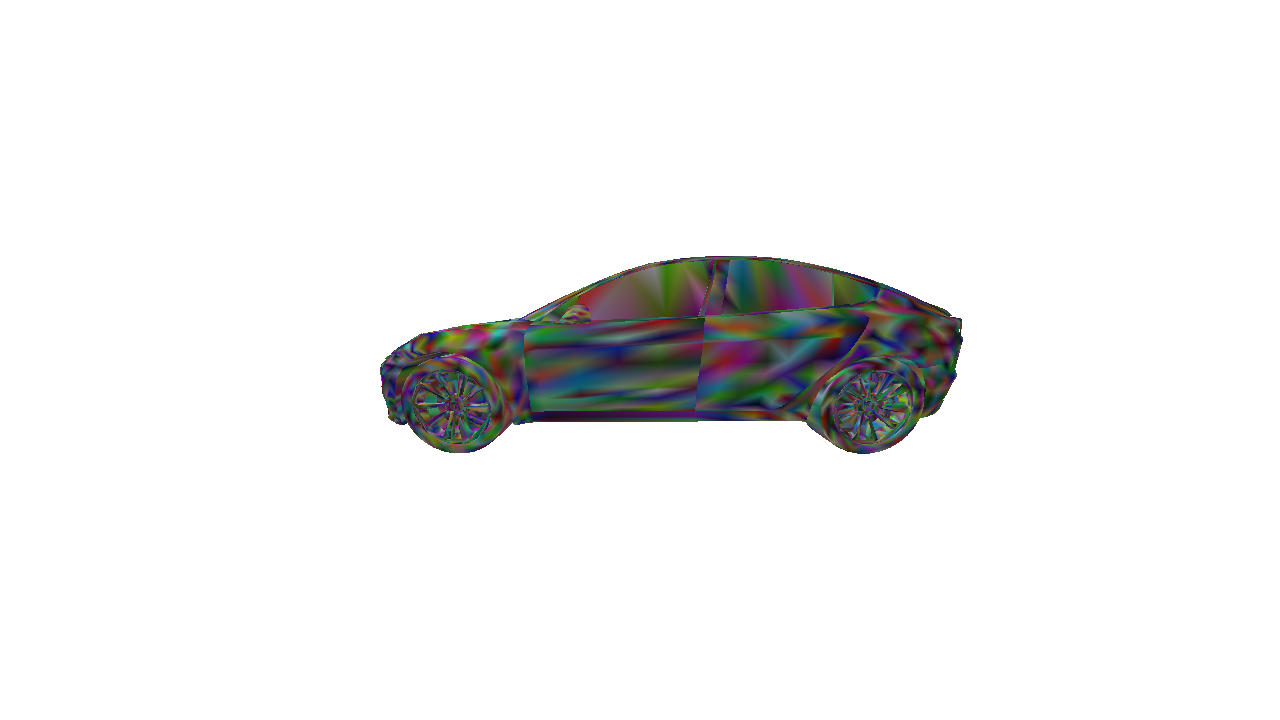
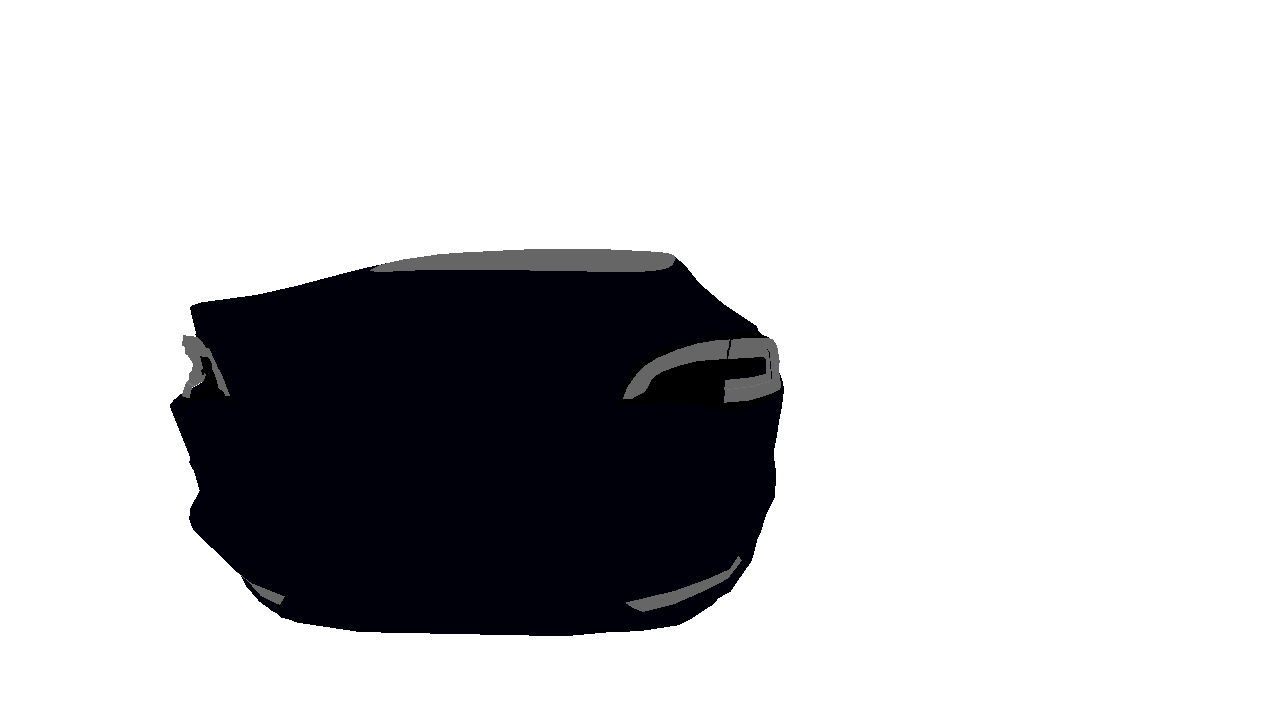
MM3DAdv model can optim

Changed region(s): [[0.125, 0.3361, 0.75, 0.8861]]

diff --git a/adv_attack/attack_class.py b/adv_attack/attack_class.py
@@ -3371,8 +3371,9 @@ class MM3DAdv_ATTACK:
         # pr_scale= 1 #1/pr_scale # 单位像素感知损失差距，所以需要除以比例
 
         # data_load 初始化
-        transforms_list = [
-            transforms.ToTensor()]
+        transforms_list = transforms.Compose([
+                    transforms.ToTensor()  # 转为张量 [C, H, W]，值归一化到 [0,1]
+                    ]) 
         train_loader ,val_loader=build_RGBCameraPose_dataloader(
                 train_root_dir=self.exp_params["train_root_dir"],
                 val_root_dir=self.exp_params["val_root_dir"],
@@ -3380,7 +3381,8 @@ class MM3DAdv_ATTACK:
                 num_workers=self.exp_params["num_workers"],
                 transform= transforms_list)
         
-
+        self.optim.object_detect = self.init_object_detection_return(
+            device=optim_device)
 
         self.optim.optim_device= optim_device
         self.optim.optim_data_type= optim_data_type
@@ -3437,12 +3439,12 @@ class MM3DAdv_ATTACK:
 
 
                 # resize
-                image_size=( self.exp_params["render_size"]["height"], 
+                image_size_render=( self.exp_params["render_size"]["height"], 
                             self.exp_params["render_size"]["width"])
                 # resize
                 adv_texture_resized = resize_tensor(adv_tensor_generate, 
-                                                   height=image_size[0], 
-                                                    width=image_size[1])
+                                                   height=image_size_render[0], 
+                                                    width=image_size_render[1])
                 # render 渲染
                 # 初始化object mesh
 
@@ -3451,7 +3453,7 @@ class MM3DAdv_ATTACK:
                 origin_com_tensor_rendered = load_parma_and_render_main(object_mesh=self.optim.mesh_model,
                                                                 backgroud=backgroud_images,
                                                                 path_camera_pose=cameras_pose_path,
-                                                                image_size=image_size,
+                                                                image_size=image_size_render,
                                                                 device=self.optim.optim_device,
                                                                 fov=110,
                                                                 blur_radius=0.0,
@@ -3466,7 +3468,7 @@ class MM3DAdv_ATTACK:
                 adv_com_tensor_rendered = load_parma_and_render_main(object_mesh=new_mesh_rendered_adv_com,
                                                                 backgroud=backgroud_images,
                                                                 path_camera_pose=cameras_pose_path,
-                                                                image_size=image_size,
+                                                                image_size=image_size_render,
                                                                 device=self.optim.optim_device,
                                                                 fov=110,
                                                                 blur_radius=0.0,
@@ -3477,42 +3479,52 @@ class MM3DAdv_ATTACK:
                 ## origin detection
 
                 ## adv com detection
-
-                detect_model_type =self.detect_params[" attack_model"]["model_type"]
+                detect_image_size=self.exp_params["image_size"]
+                adv_com_tensor_rendered_sized=resize_tensor(adv_com_tensor_rendered, 
+                                                   height=detect_image_size, 
+                                                    width=detect_image_size)
+                
+                detect_model_type =self.detect_params["attack_model"]["model_type"]
                 # 检测模型前向
-                result_object_adv_com, _ = self.optim.detect_model.detect_eval(
-                    adv_com_tensor_rendered,
+                result_object_adv_com, _ = self.optim.object_detect.detect_eval(
+                    adv_com_tensor_rendered_sized,
                     file_path="./visualization",
                     file_name='result_generate.jpg',
                     grad_status=True,
                     model_type=detect_model_type
                 )
 
-                result_object_origin, _ = self.optim.detect_model.detect_eval(
-                    origin_com_tensor_rendered,
+                origin_com_tensor_rendered_sized=resize_tensor(origin_com_tensor_rendered, 
+                                                   height=detect_image_size, 
+                                                    width=detect_image_size)
+                
+                result_object_origin, _ = self.optim.object_detect.detect_eval(
+                    origin_com_tensor_rendered_sized,
                     file_path="./visualization",
-                    file_name='result_generate.jpg',
+                    file_name='result_generate1.jpg',
                     grad_status=True,
                     model_type=detect_model_type
                 )
 
-
-
+                origin_com_tensor_rendered_sized=move_to_gpu_and_cast_dtype(origin_com_tensor_rendered_sized, self.optim.optim_device, self.optim.optim_data_type)
+                adv_com_tensor_rendered_sized=move_to_gpu_and_cast_dtype(adv_com_tensor_rendered_sized, self.optim.optim_device, self.optim.optim_data_type)
+                backgroud_images=move_to_gpu_and_cast_dtype(backgroud_images, self.optim.optim_device, self.optim.optim_data_type)
 
                 # 各损失计算
 
                 tv_loss = torch.tensor(0.0, device=self.optim.optim_device, dtype=self.optim.optim_data_type)
                 if self.exp_params["TV_loss_weight"] > 0:
-                    tv_loss = self.optim.TV_Loss(adv_com_tensor_rendered)
+                    tv_loss = self.optim.TV_Loss(adv_com_tensor_rendered_sized)
 
                 conext_loss = torch.tensor(0.0, device=self.optim.optim_device, dtype=self.optim.optim_data_type)
                 if self.exp_params["conext_loss_weight"] > 0:
-                    conext_loss = self.optim.conext_loss_l2(adv_com_tensor_rendered, origin_com_tensor_rendered, mask)
+                    mask=torch.ones_like(adv_com_tensor_rendered_sized)
+                    conext_loss = self.optim.conext_loss_l2(adv_com_tensor_rendered_sized, origin_com_tensor_rendered_sized, mask)
 
                 pr_loss = torch.tensor(0.0, device=self.optim.optim_device, dtype=self.optim.optim_data_type)
-                if  ["perceptual_loss_weight"] > 0 :
-                    pr_loss = self.optim.perceptual_loss(normalize_to_01(origin_com_tensor_rendered),
-                                                          normalize_to_01(adv_com_tensor_rendered))
+                if  self.exp_params["perceptual_loss_weight"] > 0 :
+                    pr_loss = self.optim.perceptual_loss(normalize_to_01(origin_com_tensor_rendered_sized),
+                                                          normalize_to_01(adv_com_tensor_rendered_sized))
 
                 # 检测损失,默认输出对抗损失，即需要最小化loss。
 

diff --git a/adv_attack/pt3D_tools.py b/adv_attack/pt3D_tools.py
@@ -35,7 +35,8 @@ def visualize_and_save_render(
     
     # 2. 张量转numpy并处理维度/数据类型
     # - 移到CPU → 转numpy → 调整维度(B,3,H,W)→(B,H,W,3) → 确保数值范围[0,1]
-    image_np = image_tensor.cpu().clamp(0.0, 1.0).numpy()  # 限制范围，避免异常值
+    image_tensor_temp = image_tensor.clone().detach()
+    image_np = image_tensor_temp.cpu().clamp(0.0, 1.0).numpy()  # 限制范围，避免异常值
     image_np = np.transpose(image_np, (0, 2, 3, 1))  # 维度转换：B×3×H×W → B×H×W×3
     
     # 3. 循环可视化并保存每张图像
@@ -434,7 +435,7 @@ def generate_camera_from_params(
         pitch = np.degrees(np.arctan2(pt3D_y, np.sqrt(pt3D_x**2 + pt3D_z**2)))
         # 3D torch ,pytoch3D 和carla 坐标系关系，需如下调整
         azim_angle = np.degrees(np.arctan2(pt3D_x, pt3D_z))  
-        azim_angle = -azim_angle  # 符号修正
+        azim_angle = azim_angle  # 符号修正
         
         # 生成单个相机的外参
         R_single, T_single = look_at_view_transform(
@@ -547,6 +548,7 @@ def render_process(
         torch.Tensor: 形状为 (B, 3, H, W) 的张量（B=相机数，C=3，H/W=图像尺寸）
                       数值范围 [0, 1]，float32类型
     """
+    
     # ================= 1 初始化批量渲染器 =================
     renderer = MeshRenderer(
         rasterizer=MeshRasterizer(
@@ -692,7 +694,8 @@ def apply_texture_to_mesh(
     
     # 3. 纹理格式转换：B×C×H×W → B×H×W×C（适配 PyTorch3D 纹理格式）
     texture = texture.permute(0, 2, 3, 1).contiguous()  # (B, H, W, 3)
-
+    texture = texture.to(device)
+    texture = texture.to(dtype=torch.float32) 
     # ========== 统一使用顶点颜色映射（兼容所有场景） ==========
     # 获取每个 mesh 的顶点数
     verts_padded = new_mesh.verts_padded()  # (B, V, 3)

diff --git a/advcom_generate.py b/advcom_generate.py
@@ -85,10 +85,10 @@ if __name__ == '__main__':
                   adv_params=adv_params,
                   detect_params=detect_params)
 
-    imgsize_width,imgsize_height=attack.exp_params["image_size"].values()
+    imgsize_width=attack.exp_params["image_size"]
     ref_path=r"./test_imgs/control_ref.jpg"
     ref_tenture=cv2.imread(ref_path)
-    ref_tenture=cv2.resize(ref_tenture, (imgsize_width, imgsize_height))
+    ref_tenture=cv2.resize(ref_tenture, (imgsize_width, imgsize_width))
     ref_canny=cv2_to_tensor(ref_tenture)
     if ref_canny.dim()==3:  # 添加维度
         ref_canny = ref_canny.unsqueeze(0)
